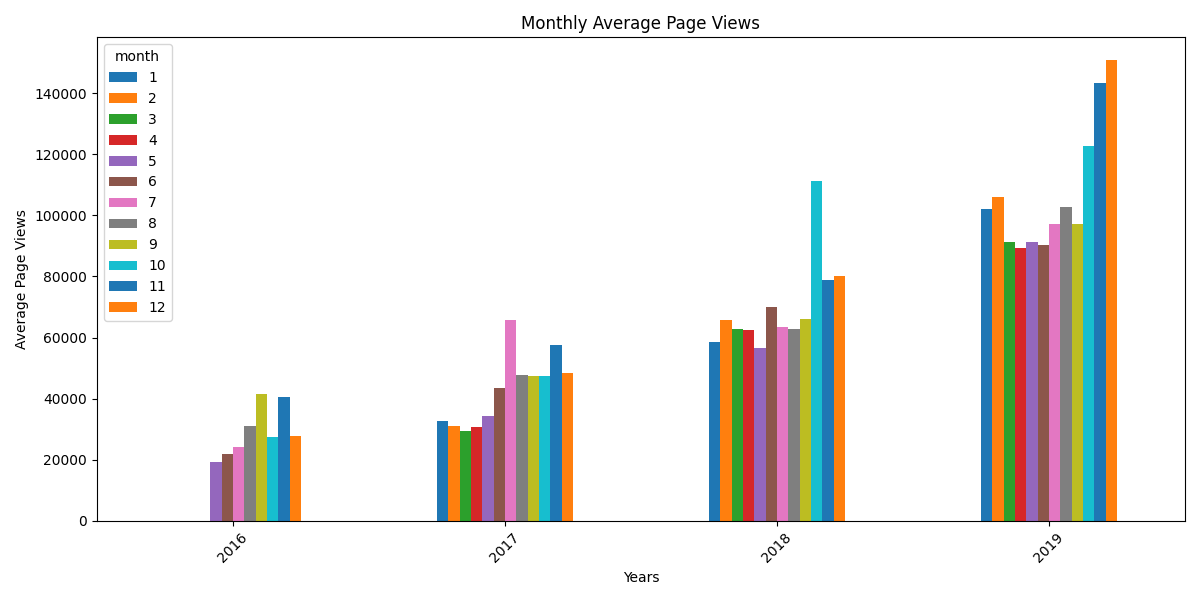
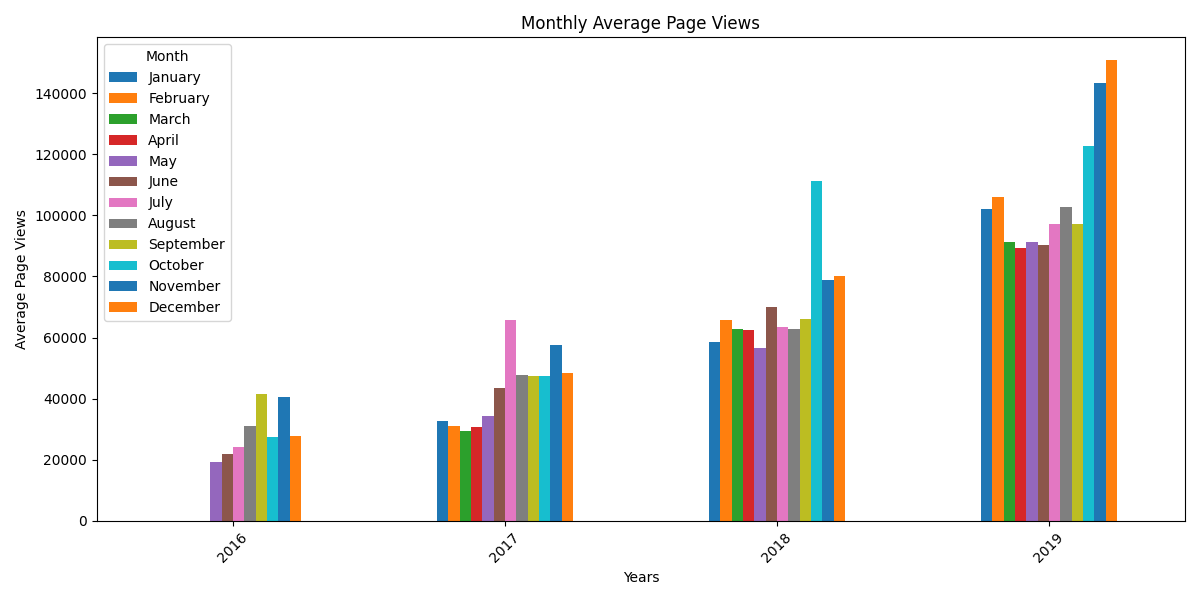
plt.show() deleted so it passes the tests

Changed region(s): [[0.0925, 0.06, 0.185, 0.54]]

diff --git a/Data Analysis with Python/04 Page View Time Series Visualizer/time_series_visualizer.py b/Data Analysis with Python/04 Page View Time Series Visualizer/time_series_visualizer.py
@@ -18,7 +18,7 @@ def draw_line_plot():
     # Draw line plot
 
     plt.figure(figsize=(10, 6))
-    plt.plot(df.index, df['value'], label='Page Views', color='b')  # Use 'value' instead of 'int'
+    plt.plot(df.index, df['value'], label='Page Views', color='b')
     plt.title('Daily freeCodeCamp Forum Page Views 5/2016-12/2019')
     plt.xlabel('Date')
     plt.ylabel('Page Views')
@@ -26,7 +26,6 @@ def draw_line_plot():
     plt.xticks(rotation=45)  
     plt.grid(True)
     plt.tight_layout()
-    plt.show()
 
     fig = plt.gcf()  
 
@@ -43,10 +42,13 @@ def draw_bar_plot():
 
     # Draw bar plot
     df_bar.plot(kind='bar', figsize=(12, 6))
+    import calendar
+    df_bar.columns = [calendar.month_name[month] for month in df_bar.columns]
     plt.title('Monthly Average Page Views')
     plt.xlabel('Years')
     plt.ylabel('Average Page Views')
     plt.xticks(rotation=45)
+    plt.legend(title='Month', labels=[calendar.month_name[i] for i in range(1, 13)])
     plt.tight_layout()
 
     fig = plt.gcf()  
@@ -61,11 +63,9 @@ def draw_box_plot():
     df_box = df.copy()
     df_box.reset_index(inplace=True)
 
-    # Create year and month columns
     df_box['year'] = df_box['date'].dt.year
     df_box['month'] = df_box['date'].dt.month_name().str[:3]
     
-    # Create a figure with two subplots (side by side)
     fig, (ax1, ax2) = plt.subplots(1, 2, figsize=(15, 6))
 
     # Plot Year-wise Box Plot (Trend)
@@ -80,16 +80,12 @@ def draw_box_plot():
     ax2.set_xlabel('Month')
     ax2.set_ylabel('Page Views')
 
-    # Set correct month order and rotate labels for the second plot
-    ax2.set_xticks(range(12))  # Set the number of ticks (12 months)
+    ax2.set_xticks(range(12))  
     ax2.set_xticklabels(['Jan', 'Feb', 'Mar', 'Apr', 'May', 'Jun', 'Jul', 'Aug', 'Sep', 'Oct', 'Nov', 'Dec'], rotation=45)
 
-    # Make the layout tight so the plots are not cropped
     plt.tight_layout()
 
-    # Save the figure
     fig.savefig('box_plot.png')
-    plt.show()
 
     return fig
 
